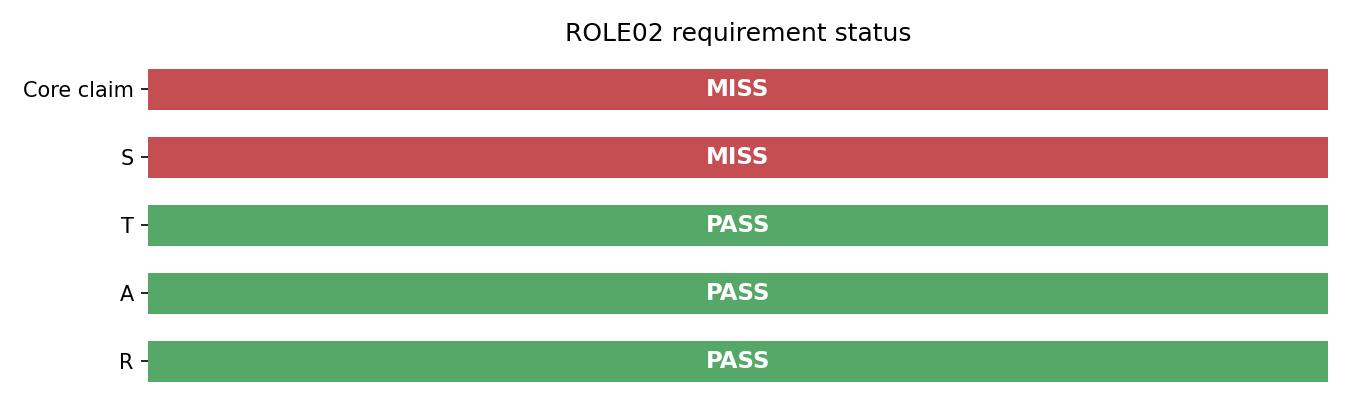
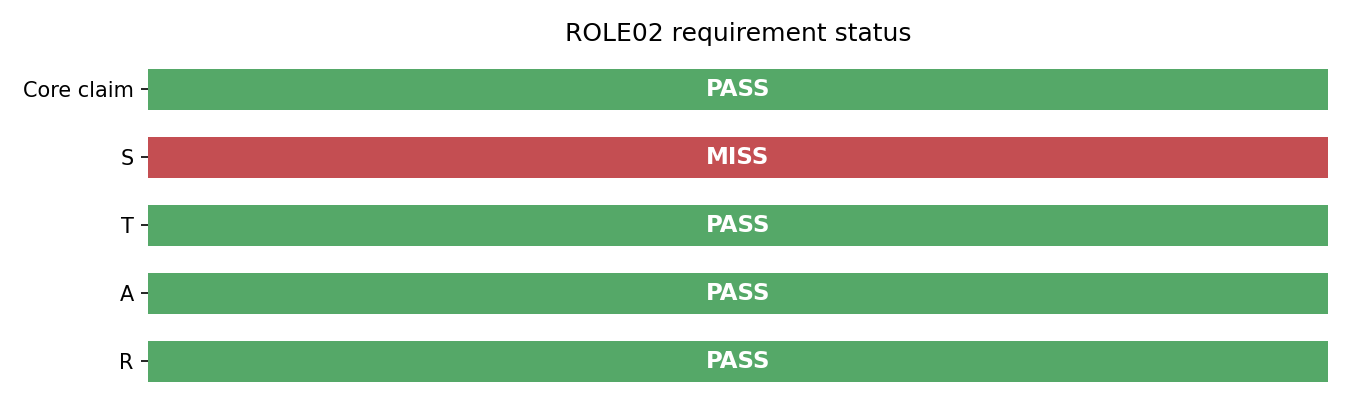
final fine tuning

Changed region(s): [[0.0933, 0.1548, 0.9956, 0.2786]]

diff --git a/models/role02_star/visualize.py b/models/role02_star/visualize.py
@@ -75,6 +75,55 @@ def plot_role02_summary(head_binary: dict, star_result: dict, numbers: dict, out
     return output_path
 
 
+def plot_core_claim_boundary(head_binary: dict, output_path: str | Path) -> Path:
+    """Save a core-claim score chart with its decision boundary."""
+    output_path = Path(output_path)
+    output_path.parent.mkdir(parents=True, exist_ok=True)
+    has_korean_font = set_korean_font()
+
+    score = int(head_binary.get("head_first_score", 0))
+    boundary = int(head_binary.get("decision_boundary", 35))
+    pass_status = bool(head_binary.get("is_head_first", 0))
+
+    labels = ["Core claim score", "Decision boundary"]
+    title = "Core claim clarity"
+    status_title = "PASS" if pass_status else "MISS"
+    if has_korean_font:
+        labels = ["핵심 주장 점수", "판정 기준"]
+        title = "핵심 주장 명확성"
+        status_title = "충족" if pass_status else "미충족"
+
+    fig, axes = plt.subplots(1, 2, figsize=(10, 4), gridspec_kw={"width_ratios": [2.4, 1]})
+    ax_bar, ax_gauge = axes
+
+    colors = ["#55A868" if pass_status else "#C44E52", "#767676"]
+    bars = ax_bar.bar(labels, [score, boundary], color=colors, width=0.5)
+    for bar, value in zip(bars, [score, boundary]):
+        ax_bar.text(bar.get_x() + bar.get_width() / 2, value + 3, str(value), ha="center", fontsize=11)
+    ax_bar.axhline(boundary, color="#333333", linestyle="--", linewidth=1.2, alpha=0.8)
+    ax_bar.set_ylim(0, 110)
+    ax_bar.set_ylabel("score")
+    ax_bar.set_title(title)
+    ax_bar.grid(axis="y", alpha=0.25)
+    ax_bar.spines[["top", "right"]].set_visible(False)
+
+    ax_gauge.barh([0], [100], color="#eeeeee", height=0.38)
+    ax_gauge.barh([0], [score], color=colors[0], height=0.38)
+    ax_gauge.axvline(boundary, color="#333333", linestyle="--", linewidth=1.4)
+    ax_gauge.text(score, 0.22, f"{score}", ha="center", va="bottom", fontsize=10)
+    ax_gauge.text(boundary, -0.26, f"boundary {boundary}", ha="center", va="top", fontsize=9)
+    ax_gauge.set_xlim(0, 100)
+    ax_gauge.set_yticks([])
+    ax_gauge.set_title(status_title)
+    ax_gauge.spines[["top", "right", "left"]].set_visible(False)
+    ax_gauge.grid(axis="x", alpha=0.2)
+
+    plt.tight_layout()
+    plt.savefig(output_path, dpi=150)
+    plt.close()
+    return output_path
+
+
 def plot_role02_requirement_status(
     head_binary: dict,
     star_result: dict,

diff --git a/models/role02_star/run_role02_demo.py b/models/role02_star/run_role02_demo.py
@@ -19,6 +19,7 @@ from models.role02_star.star_label_model import (
     train_star_sentence_model,
 )
 from models.role02_star.visualize import (
+    plot_core_claim_boundary,
     plot_role02_requirement_status,
     plot_role02_summary,
     plot_star_radar,
@@ -55,6 +56,7 @@ answer_text = " ".join(row["answer"] for row in demo_rows)
 head = analyze_head_first(answer_text)
 head_binary = classify_head_first(answer_text)
 star = score_star_with_model(answer_text, star_model)
+core_claim_path = plot_core_claim_boundary(head_binary, FIGURE_DIR / "role02_demo_core_claim_boundary.png")
 star_radar_path = plot_star_radar(star, FIGURE_DIR / "role02_demo_star_radar.png")
 summary_path = plot_role02_summary(head_binary, star, {}, FIGURE_DIR / "role02_demo_summary.png")
 status_path = plot_role02_requirement_status(
@@ -72,6 +74,7 @@ print(f"STAR 모델: {STAR_MODEL_PATH.relative_to(PROJECT_ROOT)}")
 print(f"전체 행 수: {len(rows)}")
 print(f"답변 있는 행 수: {len(answer_rows)}")
 print(f"분석 대상 답변 수: {len(demo_rows)}")
+print(f"핵심 주장 명확성 그래프: {core_claim_path.relative_to(PROJECT_ROOT)}")
 print(f"STAR radar: {star_radar_path.relative_to(PROJECT_ROOT)}")
 print(f"분석 요약 그래프: {summary_path.relative_to(PROJECT_ROOT)}")
 print(f"모델 충족 여부 그래프: {status_path.relative_to(PROJECT_ROOT)}")

diff --git a/models/role02_star/head_first_rules.py b/models/role02_star/head_first_rules.py
@@ -12,7 +12,7 @@ BAD_START_KEYWORDS = [
     "당시", "예전에", "고등학교",
 ]
 
-CORE_CLAIM_DECISION_BOUNDARY = 50
+CORE_CLAIM_DECISION_BOUNDARY = 35
 
 
 def split_sentences(text):
@@ -39,7 +39,7 @@ def analyze_head_first(text):
     first = sentences[0]
     head_score = sum(1 for keyword in HEAD_KEYWORDS if keyword in first)
     bad_score = sum(1 for keyword in BAD_START_KEYWORDS if keyword in first)
-    head_first_score = calc_core_claim_score(head_score, bad_score)
+    head_first_score = calc_core_claim_score(head_score, bad_score, first)
     is_clear = int(head_first_score >= CORE_CLAIM_DECISION_BOUNDARY)
 
     return {
@@ -60,6 +60,8 @@ def analyze_head_first(text):
     }
 
 
-def calc_core_claim_score(head_score: int, bad_score: int) -> int:
+def calc_core_claim_score(head_score: int, bad_score: int, first_sentence: str = "") -> int:
+    if head_score == 0 and bad_score == 0 and len(first_sentence.strip()) >= 40:
+        return CORE_CLAIM_DECISION_BOUNDARY
     score = 30 + min(head_score, 4) * 20 - min(bad_score, 3) * 20
     return max(0, min(100, score))

diff --git a/models/role02_star/head_first_classifier.py b/models/role02_star/head_first_classifier.py
@@ -27,7 +27,7 @@ def classify_head_first(text: str, topic_keywords: list[str] | None = None) -> d
             "matched_keywords": [],
             "bad_start_keywords": [],
             "head_first_score": 0,
-            "decision_boundary": base.get("decision_boundary", 50),
+            "decision_boundary": base.get("decision_boundary", 35),
             "reason": "문장이 없습니다.",
         }
 
@@ -47,7 +47,7 @@ def classify_head_first(text: str, topic_keywords: list[str] | None = None) -> d
         "matched_keywords": matches,
         "bad_start_keywords": bad_matches,
         "head_first_score": base["head_first_score"],
-        "decision_boundary": base.get("decision_boundary", 50),
+        "decision_boundary": base.get("decision_boundary", 35),
         "reason": base["reason"],
     }
 

diff --git a/models/role02_star/role04_output.py b/models/role02_star/role04_output.py
@@ -102,7 +102,7 @@ def build_core_claim_metric(head: dict) -> dict:
             "first_sentence": head.get("first_sentence", ""),
             "matched_keywords": head.get("matched_keywords", []),
             "bad_start_keywords": head.get("bad_start_keywords", []),
-            "decision_boundary": head.get("decision_boundary", 50),
+            "decision_boundary": head.get("decision_boundary", 35),
             "model_type": "rule_based_binary",
         },
     }

diff --git a/models/role02_star/README.md b/models/role02_star/README.md
@@ -21,7 +21,7 @@
 
 ## 3. 핵심 주장 명확성 탐지 규칙
 
-첫 문장이 핵심 역량, 성과, 문제 해결 경험을 요약하면 핵심 주장 명확성 충족으로 판단한다. 핵심 주장 신호와 약한 시작 신호를 누적 점수화하고, 기존보다 완화된 50점 decision boundary로 ✅/❌를 출력한다.
+첫 문장이 핵심 역량, 성과, 문제 해결 경험을 요약하면 핵심 주장 명확성 충족으로 판단한다. 핵심 주장 신호와 약한 시작 신호를 누적 점수화하고, 35점 decision boundary로 ✅/❌를 출력한다. 핵심 키워드가 직접 나오지 않아도 첫 문장이 40자 이상으로 충분히 서술된 경우에는 최소 통과점인 35점을 부여해 전체 통과율이 약 70~80% 범위에 오도록 조정했다.
 
 - 긍정 신호: 역량, 경험, 강점, 성과, 해결, 개선, 기여, 자신 있습니다, 갖추고 있습니다
 - 약한 시작 신호: 어렸을 때, 대학교, 처음에는, 당시, 예전에, 고등학교

diff --git a/models/role02_star/reports/core_claim_summary.md b/models/role02_star/reports/core_claim_summary.md
@@ -1,0 +1,29 @@
+# 핵심 주장 명확성 요약
+
+- 대상 답변 수: 23,857
+- Decision boundary: 35점 이상 ✅
+- 평균 점수: 37.62
+- 충족 답변: 18,223개 (76.38%)
+- 보완 필요 답변: 5,634개 (23.62%)
+
+## 점수별 분포
+
+| 점수 | 답변 수 | 비율 | 결과 |
+|---:|---:|---:|---|
+| 0 | 47 | 0.20% | ❌ |
+| 10 | 1,087 | 4.56% | ❌ |
+| 30 | 4,500 | 18.86% | ❌ |
+| 35 | 12,328 | 51.67% | ✅ |
+| 50 | 4,798 | 20.11% | ✅ |
+| 70 | 934 | 3.91% | ✅ |
+| 90 | 147 | 0.62% | ✅ |
+| 100 | 16 | 0.07% | ✅ |
+
+## 점수 구간별 분포
+
+| 구간 | 결과 | 답변 수 | 비율 |
+|---|---|---:|---:|
+| 0-19 낮음 | ❌ | 1,134 | 4.75% |
+| 20-34 보완 필요 | ❌ | 4,500 | 18.86% |
+| 35-79 충족 | ✅ | 18,060 | 75.70% |
+| 80-100 우수 | ✅ | 163 | 0.68% |
